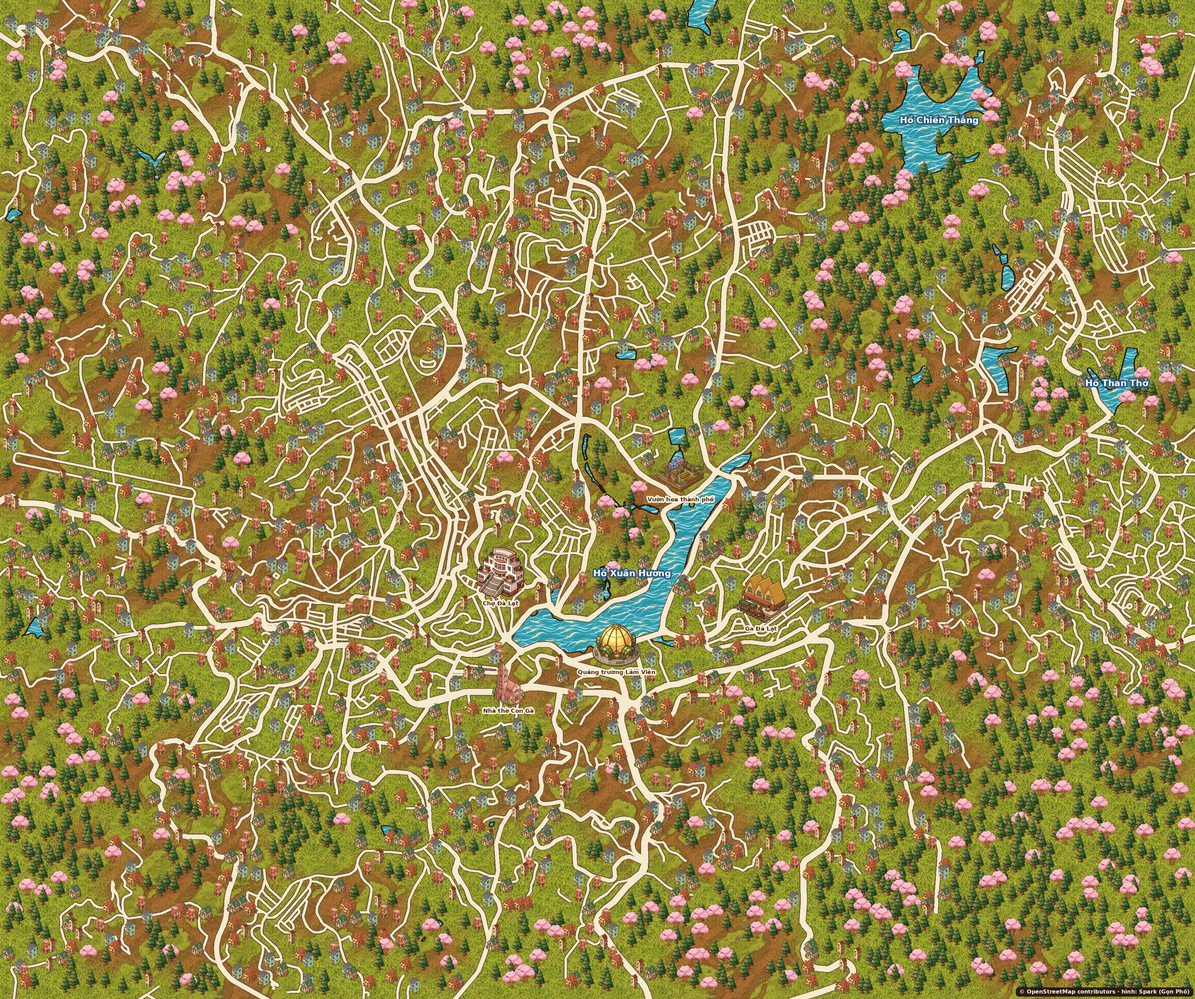
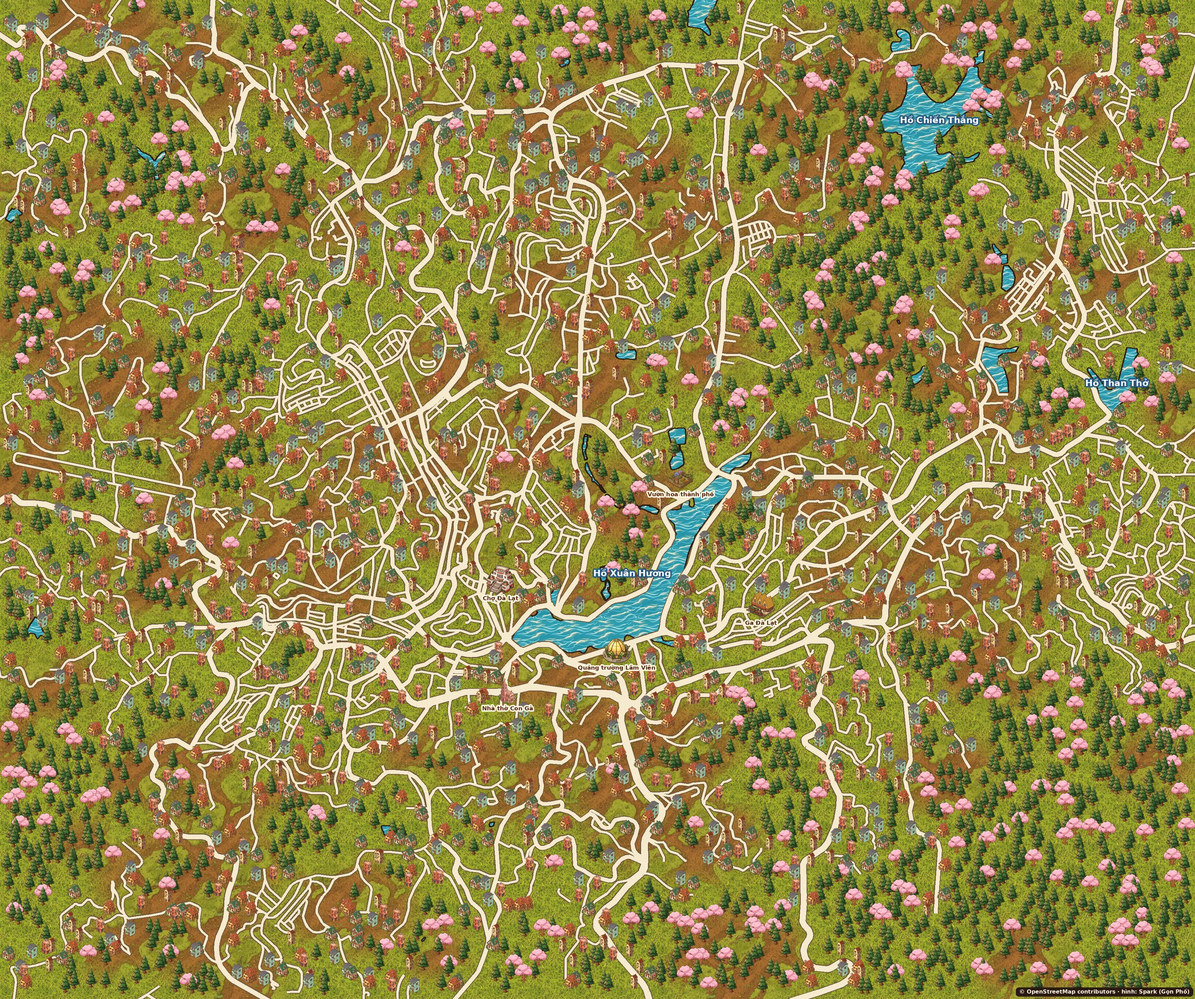
Bản đồ phố: thu nhỏ hình mốc trong tranh nền (chợ, nhà thờ, ga…) còn ~80 điểm để không đè lên đường quanh mốc — dốc Nguyễn Chí Thanh nhìn khớp
Claude-Session: https://claude.ai/code/session_01X21C3vW6w9QSrPJtoigw6e

diff --git a/app.js b/app.js
@@ -857,7 +857,7 @@
       var boxes = [];
       function hit(b) { return boxes.some(function (o) { return b.x1 > o.x0 && b.x0 < o.x1 && b.y1 > o.y0 && b.y0 < o.y1; }); }
       // hình mốc vẽ sẵn trong ảnh (Chợ, nhà thờ, quảng trường…) và tên của nó chiếm chỗ trước
-      bd.moc.forEach(function (m) { var q = B(m.lon, m.lat); boxes.push({ x0: q[0] - 85, x1: q[0] + 85, y0: q[1] - 115, y1: q[1] + 60 }); });
+      bd.moc.forEach(function (m) { var q = B(m.lon, m.lat); boxes.push({ x0: q[0] - 50, x1: q[0] + 50, y0: q[1] - 66, y1: q[1] + 36 }); });
       // chấm quán chiếm chỗ trước
       (ph._moc || []).map(function (i) { return ph.dia_diem[i]; }).forEach(function (d) { if (d.vi_tri) { var q = B(d.vi_tri.lon, d.vi_tri.lat); boxes.push({ x0: q[0] - 13 * k, x1: q[0] + 13 * k, y0: q[1] - 13 * k, y1: q[1] + 13 * k }); } });
       // tên mốc thật trong khung (chùa, chợ, dinh, công viên…) để định hướng; tối đa 4 mốc gần phố nhất

diff --git a/tools/ve_ban_do_dalat.py b/tools/ve_ban_do_dalat.py
@@ -21,12 +21,13 @@ PX_PER_M = 0.4
 MARGIN_M = 450
 FONT = '/usr/share/fonts/truetype/dejavu/DejaVuSans-Bold.ttf'
 # Mốc (hình Spark đợt 35 trong kho game): tên hình, vĩ độ, kinh độ, cỡ
+# Cỡ hình mốc ≈ 80 điểm (~200 m): to hơn thì đè lên chính các con đường quanh mốc, phố nhỏ như dốc Nguyễn Chí Thanh nhìn không khớp (anh Kha báo 26/11)
 LANDMARKS = [
-    ('moc_cho_da_lat', 11.94342, 108.43721, 150),
-    ('moc_nha_tho_con_ga', 11.93632, 108.43775, 140),
-    ('moc_quang_truong', 11.93884, 108.44501, 140),
-    ('moc_ga_da_lat', 11.94180, 108.45470, 160),
-    ('moc_vuon_hoa', 11.95020, 108.44930, 140),
+    ('moc_cho_da_lat', 11.94342, 108.43721, 84),
+    ('moc_nha_tho_con_ga', 11.93616, 108.43769, 76),
+    ('moc_quang_truong', 11.93884, 108.44501, 80),
+    ('moc_ga_da_lat', 11.94180, 108.45470, 84),
+    ('moc_vuon_hoa', 11.95020, 108.44930, 76),
 ]
 MOC_TEN = {'moc_cho_da_lat': 'Chợ Đà Lạt', 'moc_nha_tho_con_ga': 'Nhà thờ Con Gà', 'moc_quang_truong': 'Quảng trường Lâm Viên',
            'moc_ga_da_lat': 'Ga Đà Lạt', 'moc_vuon_hoa': 'Vườn hoa thành phố'}
@@ -166,7 +167,7 @@ def draw_area(game, duong, phos, key, with_center):
         p = (rnd.uniform(20, W - 20), rnd.uniform(30, H - 20))
         if in_lake(p) or any(math.hypot(p[0] - q[0], p[1] - q[1]) < 38 for q in placed[-400:]):
             continue
-        if any(math.hypot(p[0] - q[0], p[1] - q[1]) < 100 for q in lm_pts):
+        if any(math.hypot(p[0] - q[0], p[1] - q[1]) < 55 for q in lm_pts):
             continue
         dr = near_road(p)
         if 16 < dr < 30 and houses and nh < W * H / 6000:

diff --git a/CLAUDE.md b/CLAUDE.md
@@ -61,6 +61,7 @@ python3 tools/lich_trinh.py /tmp/osm
 - Bản đồ Việt Nam giống màn bản đồ game Gọn Phố (anh Kha chốt): đất xanh phẳng, bờ biển nâu đậm + quầng trắng (lớp `bo-bien`), biển xanh có sóng, biểu tượng mốc tỉnh Spark đợt 36 (`assets/vn/moc_*.webp`, chép từ `public/assets/ui/` của game). Ranh giới vẫn là dữ liệu thật. Không dùng nền cỏ trải (anh đã chê). Mốc hiện theo chỗ đang phóng: gần giữa màn hình hiện trước, tối đa 8 cái (`layoutMoc`, anh Kha nâng từ 5), ưu tiên Lâm Đồng, Hà Nội, rồi thành phố trực thuộc TW; chữ tên tỉnh không đè mốc. Đủ mốc 34 tỉnh: 14 từ game (đợt 36) + 20 Spark đợt 41 (anh Kha đánh số chung với game; khối gốc `docs/spark/dot2_viet_nam.md`) + 5 hình nhỏ `deco_*` (nằm dưới mốc, vướng thì ẩn). Ảnh Spark gốc ở Drive thư mục `dot41_moc_tinh`; công cụ Drive không tắt được chia sẻ link — nếu phải bật thì nhắc anh tự tắt.
 - Tầng tỉnh (Lâm Đồng) cùng nét bản đồ Việt Nam: mốc theo toạ độ thật (`mocDiem`: hình, kinh độ, vĩ độ, tên, mã phường, phóng từ, phóng tới). Cả tỉnh chỉ một mốc "Đà Lạt"; phóng ≥2,5 lần hiện Lang Biang, Cầu Đất; ≥7 lần hiện chợ, nhà thờ, ga… Đà Lạt có thêm 13 mốc Spark đợt 44 (Dinh I, III, Trúc Lâm, chùa Ve Chai, Hằng Nga, Domaine de Marie, Hồ Than Thở, làng hoa, Đại học, Lycée Yersin, Datanla, Thung lũng Tình Yêu; hiện từ phóng 4 hoặc 7). Phần còn lại của tỉnh: 12 mốc Spark đợt 42 (Drive `dot42_moc_lam_dong`, toạ độ OpenStreetMap qua Nominatim). Anh Kha để thư mục Drive Spark mở link, không cần tắt.
 - Tầng tỉnh tô mỗi xã/phường một màu pastel (trường `mau`, `tools/to_mau.py`), anh Kha chê "cùng một màu xanh đậm nhạt khó nhìn". Đà Lạt nổi bằng viền xanh đậm, không bằng màu.
+- Hình mốc vẽ trong tranh nền Đà Lạt (chợ, nhà thờ, ga…) giữ cỡ ~80 điểm (~200 m). Từng để 140–160 điểm → hình đè lên chính các đường quanh mốc, anh Kha thấy dốc Nguyễn Chí Thanh "không ăn khớp".
 - Từ 20/9/2026 có 9 thành phố trực thuộc trung ương (thêm Đồng Nai, Quảng Ninh, Bắc Ninh). Game còn ghi 6.
 
 ## Anh Kha đã chốt hướng mới (sau đánh giá khả thi `docs/danh_gia_kha_thi.md`, nhánh `claude/danh-gia-kha-thi`)
